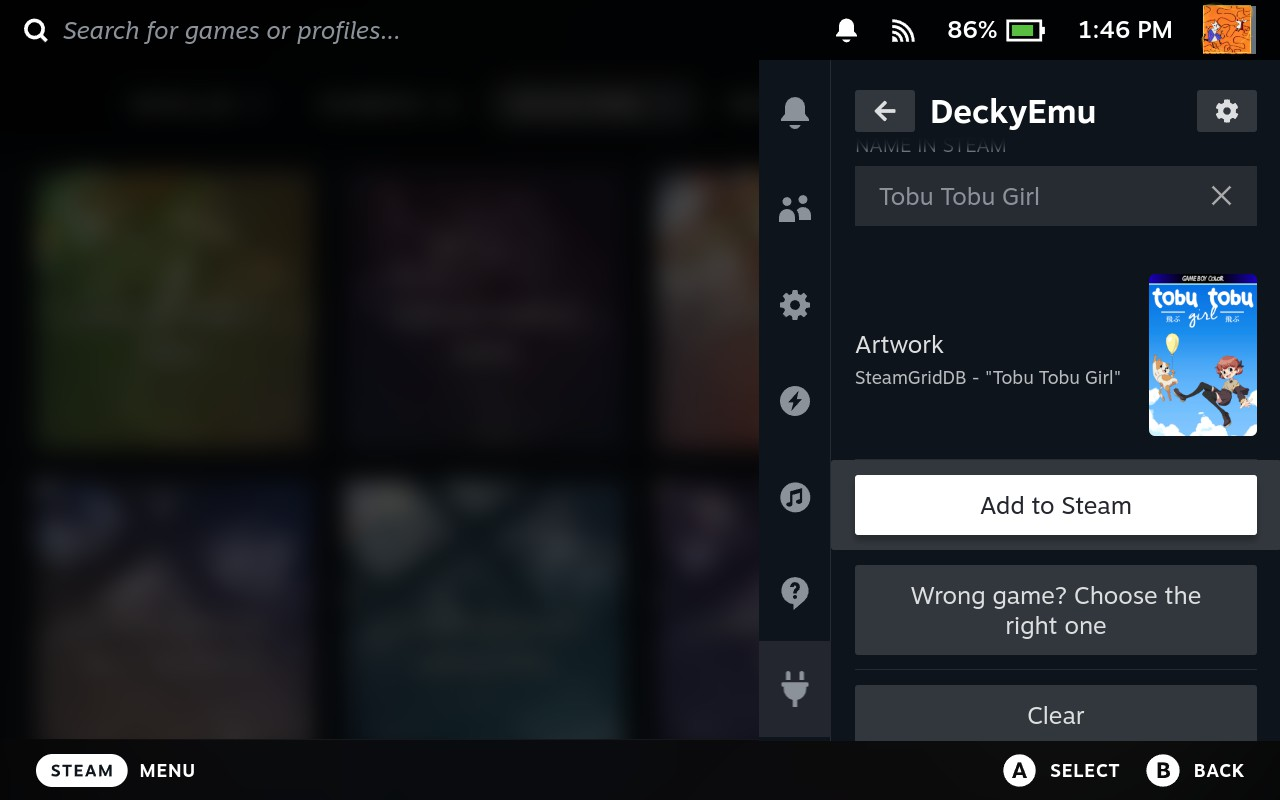
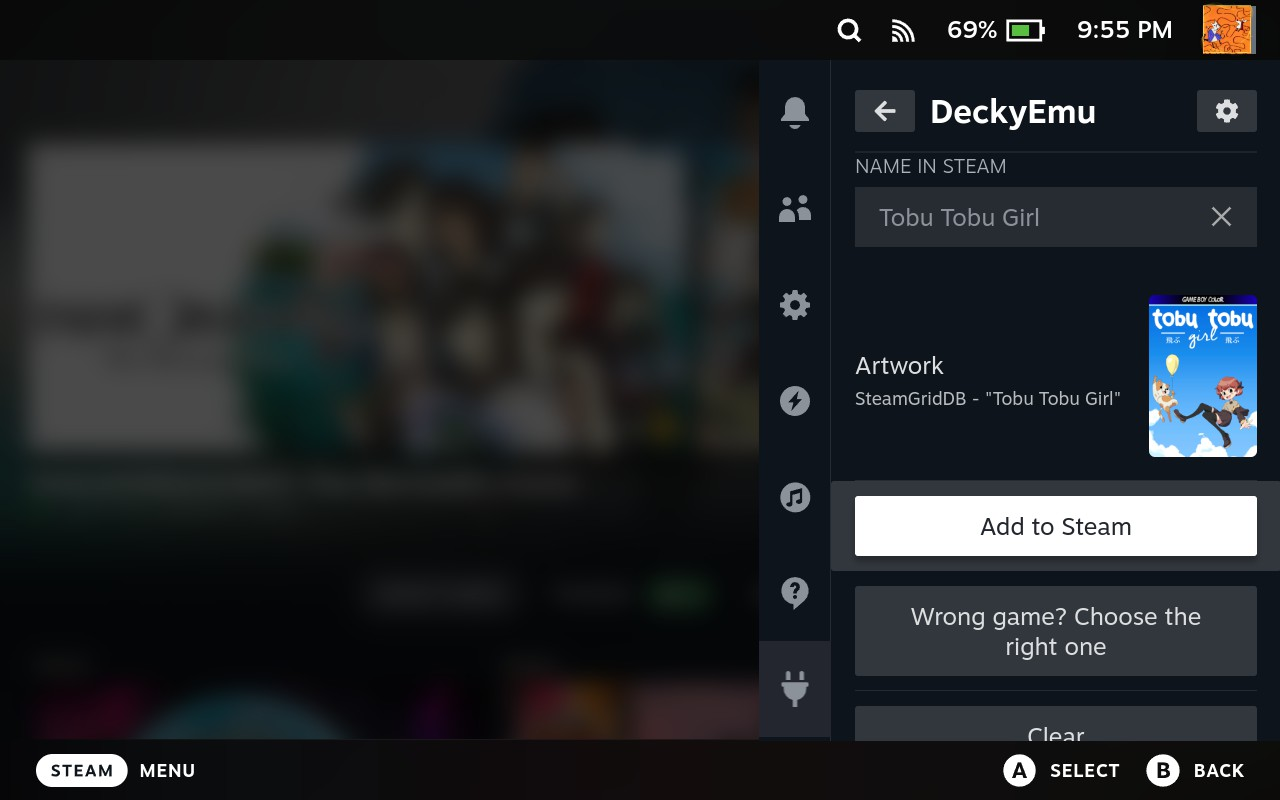
docs: update the install page, page summaries, layout, and add screenshots

diff --git a/scripts/tests/test_docs_layout.py b/scripts/tests/test_docs_layout.py
@@ -66,10 +66,26 @@ def _exists(path):
 _missing = sorted({path for path in _paths if not _exists(path)})
 check("every path in the layout exists", _missing, [])
 
+_listing = _block.group(1) if _block else ""
+
+# **The other direction, which nothing checked.** The block opens "Every backend
+# module is listed", and only the forward check existed -- every path named must
+# exist -- so a module could be added and never mentioned without failing
+# anything. Nine had accumulated by the time somebody read the page: discset,
+# emu_patch, hardware, jsonstore, model3_games, procout, steam_layouts, unpack
+# and xbox360_content.
+#
+# An unlisted module is a quieter failure than a wrong path but the same kind of
+# lie, and it is the one a promise like that invites: the sentence is what makes
+# a reader stop looking.
+_backend = sorted(name for name in os.listdir(os.path.join(REPO_ROOT, "py_modules"))
+                  if name.endswith(".py"))
+_unlisted = [name for name in _backend if name not in _listing]
+check("every backend module is listed, as the block claims", _unlisted, [])
+
 # The specific regression, named so a future edit that reintroduces it fails on
 # the reason rather than on a generic list. Scoped to the block: the prose around
 # it names both old paths on purpose, to say what went wrong and why it mattered.
-_listing = _block.group(1) if _block else ""
 check("steam.ts is not listed as a file", "steam.ts" not in _listing, True)
 check("nor is backend.ts", "backend.ts" not in _listing, True)
 

diff --git a/docs/development.md b/docs/development.md
@@ -188,6 +188,7 @@ py_modules/                 Backend logic. Plain Python, stdlib only -- it runs
                             on decky's frozen interpreter and cannot grow deps.
   ra_detect.py              Find RetroArch (flatpak/native/AppImage), build argv
   ra_cores.py               Scan cores, parse .info, match extensions, peek in zips
+  unpack.py                 Extract a zip that arrived in the transfer folder
   libretro_meta.py          Name cleanup and libretro thumbnail resolution
   sgdb.py                   SteamGridDB search, scoring, era filtering, key discovery
   platforms.py              libretro database -> short name and folder name;
@@ -198,9 +199,14 @@ py_modules/                 Backend logic. Plain Python, stdlib only -- it runs
   cheevos.py                RetroAchievements login, and the per-launch config
   store.py                  settings / library / emulators / collections records
   romshelf.py               File a ROM under roms/<system>, and delete it again
+  discset.py                Recognise a multi-disc game from the discs beside it,
+                            and write the .m3u that makes it one game
   savedata.py               Where each emulator keeps its saves, and gathering
                             them into one archive to take off the device
   net.py                    stdlib-only HTTP, with a system-CA fallback
+  jsonstore.py              Read and write the plugin's own JSON, atomically
+  procout.py                Read what a subprocess says while it is still saying it
+  hardware.py               Which machine this is, and whether we claim to work on it
   sysenv.py                 Strip Steam's runtime; user_home(); user_dir();
                             where flatpak keeps applications and whether one is
                             deployed there or merely left behind
@@ -224,6 +230,10 @@ py_modules/                 Backend logic. Plain Python, stdlib only -- it runs
                             config, and the rule for when that is allowed
   emu_firmware.py           Match a BIOS or key file by name and put it where the
                             emulator reads it
+  emu_patch.py              Correct a bug inside an emulator's own binary, when
+                            nothing else reaches it
+  steam_layouts.py          The Steam Input layout an emulator needs, derived
+                            from one Steam ships
 
   sfo.py                    PARAM.SFO, the container PS3, PS4 and Vita share
   ps3_games.py              RPCS3: .pkg headers, unpacked games, .rap licences
@@ -231,6 +241,9 @@ py_modules/                 Backend logic. Plain Python, stdlib only -- it runs
   vita_games.py             Vita3K: PKG type 2, installed titles, zRIF keys
   vita_release.py           Recognise a NoNpDrm .zip by the param.sfo inside it
   xbox_disc.py              Read XDVDFS enough to say whether a disc can boot
+  xbox360_content.py        Name an Xbox 360 file by its header, when it has no
+                            name to go on
+  model3_games.py           Name an arcade ROM set, for the files named by code
 
   plugin_base.py            What every mixin may assume about the composed
                             Plugin -- declarations only, no implementations.
@@ -264,14 +277,13 @@ src/                        Frontend (React + TypeScript, bundled by rollup).
                             contained otherwise: it unmounts to whatever
                             boundary Steam happens to have, which is an empty
                             Game Mode screen.
-  backend/                  Every callable() binding and its types, in seven
-                            files by subject, named after the backend module
+  backend/                  Every callable() binding and its types, split by
+                            subject and named after the backend module
                             each one talks to. index.ts re-exports, so importers
                             still write `from "./backend"` and a declaration can
                             move between them without touching a caller.
   steam/                    All undocumented SteamClient / appStore /
-                            collectionStore / Steam Input use, in five files by
-                            subject.
+                            collectionStore / Steam Input use, split by subject.
                             Kept free of backend imports so the Node tests can
                             load it -- anything needing both halves lives one
                             level up (addGame.ts, collections.ts,

diff --git a/docs/getting-started.md b/docs/getting-started.md
@@ -229,8 +229,7 @@ entry. Turn the switch off for those.
 PlayStation 3 never had a multi-disc game to begin with.
 
 **Select + Start is the same combo everywhere it works**, including
-[RetroArch's own menu](retroarch.md#getting-into-retroarchs-menu). DuckStation
-and PCSX2 share the menu it opens, so it looks and behaves the same in both.
+[RetroArch's own menu](retroarch.md#getting-into-retroarchs-menu).
 
 **Naming.** The discs are recognised by their filenames, because the disc number
 is not inside the file — every emulation tool works this way.
@@ -243,17 +242,10 @@ is not inside the file — every emulation tool works this way.
 | `Game (CD 1).bin` | |
 | `Game (Disc 1) (Rev 1).cue` | |
 
-Anything else is simply not spotted, and **Pick another disc** under the switch
-lets you choose the rest by hand. They have to be in the same folder, because a
-playlist can only name files beside it.
-
-Everything except the disc number has to match exactly, so `Game` and `Game 2`
-are never merged, and a set with a disc missing is not offered at all — half a
-game is worse than none.
-
-**The switch appears whatever runs the game** — see the table above for what
-changes. What is read from the core's own information, rather than a list kept
-here, is whether it can be handed a playlist.
+Anything else is not spotted, and **Pick another disc** under the switch lets
+you choose the rest by hand — they must be in the same folder. Everything except
+the disc number has to match exactly, so `Game` and `Game 2` are never merged,
+and a set missing a disc is not offered at all.
 
 **Three layouts the panel will tell you about:**
 
@@ -262,9 +254,6 @@ here, is whether it can be handed a playlist.
 | A disc when the others are in folders of their own — how a Redump download arrives | Send every disc's files across together; they arrive in one folder, which is all it takes |
 | A `.bin` whose `.cue` never arrived | Send the `.cue` too — without it the audio track is invisible and the game may not start |
 | One `.bin` track of a disc | Pick the `.cue` that names it; the tracks are not discs, even though they are usually numbered like them |
-
-Removing a multi-disc game takes the playlist, every disc and every track with
-it, the same as any other game.
 
 ## When something does not work
 

diff --git a/README.md b/README.md
@@ -12,12 +12,24 @@ PCSX2, DuckStation, PPSSPP, RPCS3, shadPS4, Vita3K, Ryujinx, Cemu, Azahar,
 xemu, Xenia Canary and Supermodel — along with the BIOS and firmware each one needs.
 Bring your own instead, if you would rather.
 
+![The Emulators tab in the settings page, listing Azahar, Cemu, Dolphin and
+DuckStation with the system and file types each one
+handles.](docs/images/installing-an-emulator.jpg)
+
 **Get your games onto the Deck** from a phone or a laptop over your own network.
 ROMs, disc sets, zipped archives and PlayStation 3, PS4 and Vita packages all
 arrive, unpack and are filed under their system.
 
+![The transfer dialog in Game Mode: a QR code beside a short address and a
+six-digit code, with a received Game Boy ROM listed underneath and an Add button
+next to it.](docs/images/sending-a-game.jpg)
+
 **Play them from Steam**, with a clean name, boxart and a shelf of their own —
 and back your save data up to another device, or put it back from one.
+
+![Steam's home screen. A game added from a ROM sits first under Recent Games
+with its own wide artwork, beside games bought from
+Steam.](docs/images/a-game-in-steam.jpg)
 
 Everything happens with a controller, from the Quick Access panel. The one
 exception is [Decky Loader](https://github.com/SteamDeckHomebrew/decky-loader)
@@ -82,7 +94,7 @@ symptom-by-symptom list for when one of them misbehaves.
 | | |
 | --- | --- |
 | [Getting started](docs/getting-started.md) | The walkthrough: install to first game, then everyday tasks and what to do when one misbehaves |
-| [Installing](docs/installing.md) | The manual install, and what the plugin puts on your Deck |
+| [Installing](docs/installing.md) | Installing and uninstalling, the Desktop Mode fallback, and what the plugin puts on your Deck |
 | [Getting files onto the Deck](docs/transfers.md) | Sending ROMs, BIOS files and keys from another device, and where each ends up |
 | [RetroArch](docs/retroarch.md) | Installing it and its cores, fullscreen, on-screen chatter, the menu combo, achievements |
 | [Standalone emulators](docs/emulators.md) | The one-press catalog, moving between builds, registering your own |

diff --git a/docs/installing.md b/docs/installing.md
@@ -1,17 +1,41 @@
 # Installing DeckyEmu
 
-The one-time install, the Desktop Mode fallback, and what the plugin puts on
-your Deck.
+Installing it with a controller, the Desktop Mode fallback for a Deck that
+cannot reach GitHub, and what the plugin puts on your Deck.
 
 Back to [the README](../README.md).
 
-**Contents** — [Manual install](#manual-install) ·
+**Contents** — [Installing](#installing) · [Manual install](#manual-install) ·
 [Where things live](#where-things-live) · [Uninstalling](#uninstalling)
+
+## Installing
+
+**In Game Mode, with a controller.** You need
+[Decky Loader](https://github.com/SteamDeckHomebrew/decky-loader), which is the
+one thing installed from Desktop Mode — and the only trip you make. Everything
+below happens on the couch.
+
+1. Open the **Decky** menu in the Quick Access panel and go to its settings.
+2. Find **Install from URL** and give it:
+
+   ```
+   https://get.deckyemu.xyz
+   ```
+
+3. Confirm Decky's prompt. DeckyEmu appears in the Quick Access panel.
+
+That address is short because it is typed on an on-screen keyboard; it redirects
+to the latest release. To paste one you can verify instead — reasonable, for a
+URL that installs software — use
+`https://github.com/elpendor/deckyemu/releases/latest/download/deckyemu.zip`.
+
+Updating later never needs any of this: **Settings → Updates** does it from the
+panel.
 
 ## Manual install
 
-The route above is the one to use; this is here for a Deck that cannot reach
-GitHub, or a build you made yourself. It needs Desktop Mode once. Download
+**Only for a Deck that cannot reach GitHub, or a build you made yourself.**
+Everyone else wants the route above. This one needs Desktop Mode. Download
 `deckyemu.zip` from the
 [releases page](https://github.com/elpendor/deckyemu/releases) and unpack it into
 `~/homebrew/plugins`, so that `~/homebrew/plugins/deckyemu/main.py` exists — the

diff --git a/docs/library.md b/docs/library.md
@@ -1,7 +1,7 @@
 # Your library
 
-Editing a game after it is added, how games are grouped in Big Picture, and
-putting things back in order.
+Starting and editing a game, how games are grouped in Big Picture, backing up
+and restoring save data, and putting things back in order.
 
 Back to [the README](../README.md).
 
@@ -25,6 +25,9 @@ When one does not, **Select + Start** opens the emulator's menu, where
 [multi-disc games](getting-started.md#multi-disc-games).
 
 ### Its page in your library
+
+![A game added from a ROM, open on its own page in the Steam library, with hero
+artwork, a logo and a Play button.](images/its-page-in-steam.jpg)
 
 The ⓘ button beside play opens Steam's own page for that game — where the
 artwork, the play time and the per-game controller and performance settings
@@ -58,6 +61,9 @@ the library is it deciding not to continue.
 If anything about that check goes wrong, the game launches normally. It is built
 to fail in that direction: a missing warning is a far smaller problem than a
 game that will not start.
+
+![The Added games list, grouped by system, with play, details, edit and remove
+buttons on each row.](images/added-games.jpg)
 
 ## Editing a game
 

diff --git a/docs/emulators.md b/docs/emulators.md
@@ -7,11 +7,17 @@ Back to [the README](../README.md).
 
 **Contents** — [Installing an emulator](#installing-an-emulator) ·
 [Unpacking a PS4 package](#unpacking-a-ps4-package) ·
-[Fixes](#fixes) ·
+[Getting to the emulator's own menu](#getting-to-the-emulators-own-menu) ·
+[Fixes](#fixes) · [Motion controls](#motion-controls) ·
+[Xbox 360 files](#xbox-360-files) · [Arcade ROM sets](#arcade-rom-sets) ·
+[Removing an emulator](#removing-an-emulator) ·
 [Updating an emulator, or going back](#updating-an-emulator-or-going-back) ·
 [Adding your own emulator](#adding-your-own-emulator)
 
 ## Installing an emulator
+
+![The Emulators tab, listing ready-made emulators with the system and file types
+each one handles.](images/installing-an-emulator.jpg)
 
 The **Emulators** tab lists emulators for the systems RetroArch does not cover.
 Press install and the emulator is downloaded and set up: the system, the file

diff --git a/docs/transfers.md b/docs/transfers.md
@@ -6,9 +6,13 @@ where each one ends up.
 Back to [the README](../README.md).
 
 **Contents** — [Sending files from another device](#sending-files-from-another-device) ·
+[Unpacking a zip](#unpacking-a-zip) ·
 [Where a ROM ends up](#where-a-rom-ends-up)
 
 ## Sending files from another device
+
+![The transfer dialog: a QR code, a short address and a six-digit code, with a
+received file listed below it.](images/sending-a-game.jpg)
 
 Getting a ROM onto a Deck otherwise means Desktop Mode or a shell. **Send files
 from another device** in the Quick Access panel starts a small HTTP server on the

diff --git a/docs/updates.md b/docs/updates.md
@@ -5,6 +5,7 @@ Keeping the plugin current, and what to send when something goes wrong.
 Back to [the README](../README.md).
 
 **Contents** — [Updates and what changed](#updates-and-what-changed) ·
+[Which build you are running](#which-build-you-are-running) ·
 [Reporting a problem](#reporting-a-problem)
 
 ## Updates and what changed

diff --git a/docs/retroarch.md b/docs/retroarch.md
@@ -1,7 +1,7 @@
 # RetroArch
 
-Installing RetroArch and its cores, and the launch behaviour this plugin sets
-for games that run on one.
+Installing RetroArch and its cores, the launch behaviour this plugin sets, the
+menu combo, and achievements.
 
 Back to [the README](../README.md).
 
